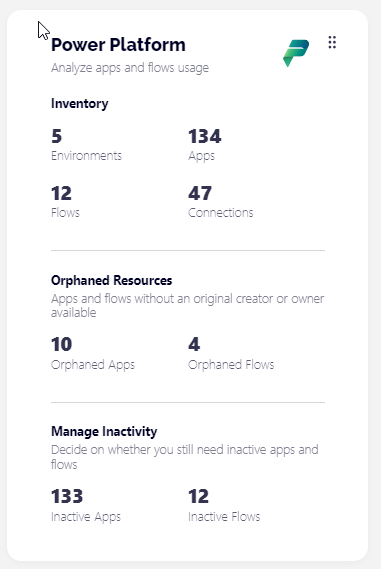
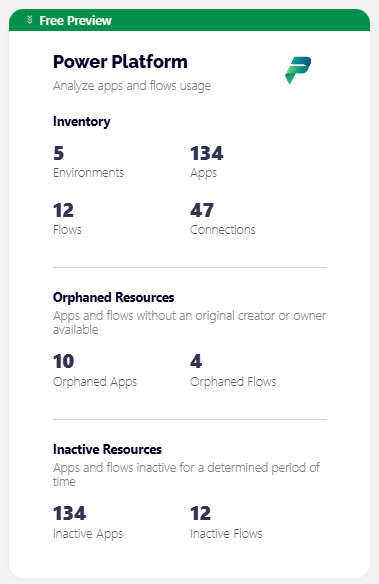
updates

diff --git a/reporting/power-platform-reports.md b/reporting/power-platform-reports.md
@@ -1,5 +1,5 @@
 ---
-description: Power Platform reports provide insight into the state of your Power BI workspaces.
+description: Power Platform reports provide insight into the state of your Power Platform environments.
 ---
 
 # Power Platform Reports
@@ -8,15 +8,16 @@ This article contains information on six Power Platform reports available throug
 
 * [Power Platform Environments Report](#power-platform-environments-report)
 * [Power Apps Inventory Report](#power-apps-inventory-report)
-* [Flow Inventory Report](#flow-inventory-report)
+* [Power Automate Inventory Report](#power-automate-inventory-report)
 * [Power Platform Connections Report](#power-platform-connections-report)
-* [Flow Permissions Report](#flow-permissions-report)
+* [Power Automate Permissions Report](#power-automate-permissions-report)
 * [Power App Permissions Report](#power-app-permissions-report)
 
 You can also find the Power BI reports under the Power Platform filter. For more information on those reports, [take a look at the Power BI reports article](../reporting/power-bi-reports.md).
 
 {% hint style="information" %}
-**Power Platform Reports** are available in the Security & Compliance plan and higher tiers. See the [pricing page](https://www.syskit.com/products/point/pricing/) for more details.
+**Power Platform Reports** are currently available as a free preview. After a certain amount of time has passed, this feature will be available as an add-on to your current subscription. 
+
 {% endhint %}
 
 ## Power Platform Environments Report
@@ -25,7 +26,7 @@ The Power Platform Environments report provides a complete overview of your Powe
 
 ### Generate Report
 
- * **Click the Reports button**; located on the left side of the screen.
+* **Click the Reports button**; located on the left side of the screen.
 * **Select the Power Platform category in the filter** in the upper left corner.
 * **Click the Power Platform Environments report tile** to be redirected to the Selection screen.
 
@@ -42,7 +43,6 @@ On the **Power Platform Environments** report, the default columns displayed are
 * **Connectors** - the number of connectors contained within the environment
 * **External Users** - the number of external users in the environment
 
-      
 The additional columns available in the **column chooser**, located in the top right corner of the report, are:
       
 * **State**
@@ -59,7 +59,7 @@ The Power Apps Inventory report gives a complete overview of all your Power Apps
 
 ### Generate Report
 
- * **Click the Reports button** on the screen's left side.
+ * **Click the Reports button** on the screen's left side.
 * **Select the Power Platform category in the filter** in the upper left corner.
 * **Click the Power Apps Inventory report tile** to be redirected to the Selection screen.
 
@@ -75,7 +75,7 @@ The **Power Platform Environments** report opens, where the default columns disp
 * **Flows** - the number of flows contained within the environment
 * **Connectors** - the number of connectors contained within the environment
 * **External Users** - the number of external users in the environment
-      
+
 The additional columns available in the **column chooser**, located in the top right corner of the report, are:
       
 * **State**
@@ -109,6 +109,11 @@ Here, you can find the following information in the columns:
 * **Unique Users in Last 30 Days** - number of unique users in the last 30 days
 * **Launches in 30 Days** - number of times the app was launched in the last 30 days
 
+In the top left corner, you can also select a specific view for the report:
+* **All Apps**
+* **Inactive Apps**
+* **Orphaned Apps**
+
 The additional columns available in the **column chooser**, located in the top right corner of the report, are:
 
 * **App ID**
@@ -122,14 +127,14 @@ The additional columns available in the **column chooser**, located in the top r
 * **Launches in the Last 180 Days**
 * **Active**
 
-## Flow Inventory Report
+## Power Automate Inventory Report
 
-The Flow Inventory report provides a complete overview of all your Power Automate Flows across every environment.
+The Power Automate Inventory report provides a complete overview of all your Power Automate Flows across every environment.
 
 ### Generate Report
 
 * **Click the Reports button** on the screen's left side.
-* **Select the Power Platform category in the filter** you can find in the upper left corner.
+* **Select the Power Platform category in the filter** in the upper left corner.
 * **Click the Flow Inventory report tile** to be redirected to the Selection screen.
 
 ### Report Data
@@ -144,7 +149,7 @@ The **Power Platform Environments** report opens, where the default columns disp
 * **Flows** - the number of flows contained within the environment
 * **Connectors** - the number of connectors contained within the environment
 * **External Users** - the number of external users in the environment
-      
+
 The additional columns available in the **column chooser**, located in the top right corner of the report, are:
       
 * **State**
@@ -193,8 +198,8 @@ The Power Platform Connections report provides a complete overview of all your P
 
 ### Generate Report
 
- * **Click the Reports button** on the screen's left side.
-* **Select the Power Platform category in the filter** you can find in the upper left corner.
+* **Click the Reports button** on the screen's left side.
+* **Select the Power Platform category in the filter** in the upper left corner.
 * **Click the Power Platform Connections report tile** to be redirected to the Selection screen.
 
 ### Report Data
@@ -209,7 +214,7 @@ The **Power Platform Environments** report opens, where the default columns disp
 * **Flows** - the number of flows contained within the environment
 * **Connectors** - the number of connectors contained within the environment
 * **External Users** - the number of external users in the environment
-      
+
 The additional columns available in the **column chooser**, located in the top right corner of the report, are:
       
 * **State**
@@ -235,14 +240,14 @@ Here, you can find the following information in the columns:
 The additional column available in the **column chooser**, located in the top right corner of the report, is the **Creator Sign-in Status**.
 
 
-## Flow Permissions Report
+## Power Automate Permissions Report
 
-The Flow Permissions report gives insight into the permissions given to Power Automate Flows.
+The Flow Permissions report gives insight into the permissions granted to Power Automate Flows.
 
 ### Generate Report
 
- * **Click the Reports button** on the screen's left side.
-* **Select the Power Platform category in the filter** you can find in the upper left corner.
+* **Click the Reports button** on the screen's left side.
+* **Select the Power Platform category in the filter** in the upper left corner.
 * **Click the Flow Permissions report tile** to be redirected to the Selection screen.
 
 ### Report Data
@@ -257,7 +262,7 @@ The **Power Platform Environments** report opens, where the default columns disp
 * **Flows** - the number of flows contained within the environment
 * **Connectors** - the number of connectors contained within the environment
 * **External Users** - the number of external users in the environment
-      
+
 The additional columns available in the **column chooser**, located in the top right corner of the report, are:
       
 * **State**
@@ -283,12 +288,12 @@ The additional columns available in the **column chooser**, located in the top r
 
 ## Power App Permissions Report
 
-The Power App Permissions report gives insight into the permissions given to Power Platform Apps.
+The Power App Permissions report gives insight into the permissions granted to Power Platform Apps.
 
 ### Generate Report
 
- * **Click the Reports button** on the screen's left side.
-* **Select the Power Platform category in the filter** you can find in the upper left corner.
+* **Click the Reports button** on the screen's left side.
+* **Select the Power Platform category in the filter** in the upper left corner.
 * **Click the Power App Permissions report tile** to be redirected to the Selection screen.
 
 ### Report Data
@@ -303,7 +308,7 @@ The **Power Platform Environments** report opens, where the default columns disp
 * **Flows** - the number of flows contained within the environment
 * **Connectors** - the number of connectors contained within the environment
 * **External Users** - the number of external users in the environment
-      
+
 The additional columns available in the **column chooser**, located in the top right corner of the report, are:
       
 * **State**

diff --git a/configuration/power-platform.md b/configuration/power-platform.md
@@ -4,7 +4,7 @@ description: This article explains how to enable Power Platform data collection 
 
 # Power Platform Data Collection
 
-Enabling Power Platform data collection lets you generate Power Platform reports to keep track of your Power Platform usage. It also enables the Power Platform Dashboard tile. 
+Enabling Power Platform data collection lets you generate Power Platform reports for a detailed overview of your Power Platform environments. It also enables the Power Platform Dashboard tile. 
 
 To configure Power Platform for Syskit Point, complete the following:
 
@@ -20,32 +20,26 @@ To collect Power Platform data, you need to **provide consent** for us to start 
 * **Click the Login with Microsoft Authentication flow (3)** button and log in with your admin account
   * The confirmation modal appears up, listing the permissions that are required for the Power Platform feature
   * **Selecting the 'Consent on behalf of your organization' checkbox (4)** gives Syskit Point access to the specified resources for all users in your environment, and no one else will be prompted to review these permissions
-  * If this is not selected, WHAT HAPPENS?
+  * If this is not selected, Power Platform data will not be collected until the login is authenticated. 
 * **Click Accept (5)** to start collecting Power Platform data in Syskit Point
 
 ![Configure Power Platform](../.gitbook\assets\power-platform-configuration.png)
 
 ![Configure Power Platform - Consent](../.gitbook\assets\power-platform-configuration-consent.png)
 
-{% hint style="information" %}
-
-Permissions granted to Syskit Point can be removed after syncing data, as they are not required until the next Power Platform login.
-  * If the permission granted is not removed, you are never required to repeat the configuration steps again.
-
-{% endhint %}
 
 * [For details on how to enable Power BI data collection, take a look at this article.](../configuration/enable-powerBI-data-collection.md)
 
-## Enable Power Apps and Power Automate
+## Enable Power Apps and Power Automate Data Collection
 
 Once the permissions are granted, you can see the **Status** in the Settings change to **Collecting Data** with a **green** checkbox next to it. 
 
 If the box is unchecked, the Status is yellow and states, 'Please Enable Data Collection Above to Continue.'
 
-To make sure Power Apps and Power Automate are enabled, after granting permissions, please do the following:
+To make sure Power Apps and Power Automate data collection is enabled, after granting permissions, please do the following:
 
 * Ensure that the **checkbox is selected (1)** next to Collect Power Apps and Power Automate Data
-* You can then set your **Reporting Limit (2)** for how long environments, flows or apps need to be inactive before they are flagged. The following can be set:
+* You can then set your **Reporting Limit (2)** for how long environments, flows, or apps must be inactive before being flagged. The following can be set:
   * Inactive environments that don't have any activities in the last XX days
   * Inactive flows that haven't been run in the last XX days
   * Inactive apps that haven't been launched in the last XX days
@@ -62,6 +56,6 @@ For more details, [take a look at the Power Platform reports article](../reporti
 
 {% hint style="information" %}
 
-You can currently use this feature as a FREE preview. After a certain amount of time has passed, this feature will be available as an add-on to your current subscription. 
+You can currently use this feature as a free preview. After a certain amount of time has passed, this feature will be available as an add-on to your current subscription. 
 
 {% endhint %}

diff --git a/microsoft365-inventory/explore-your-microsoft-365-dashboard.md b/microsoft365-inventory/explore-your-microsoft-365-dashboard.md
@@ -15,21 +15,22 @@ You can use Dashboard to:
 The Dashboard is the home page of Syskit Point and shows as soon as you log in. 
 
 The **Syskit Point** Dashboard shows Syskit Point administrators the following information in the tiles:
- * Inventory
- * Users
- * Storage
- * Security & Compliance
- * Copilot Readiness
- * External Collaboration
- * Active Access Review
- * Lifecycle Management
- * Microsoft 365 Licenses
- * Power Platform
+* Inventory
+* Users
+* Storage
+* Security & Compliance
+* Copilot Readiness
+* External Collaboration
+* Active Access Review
+* Lifecycle Management
+* Microsoft 365 Licenses
+* Power Platform
+
 
 The **Syskit Point** Dashboard shows Syskit Point collaborators the following information in the tiles:
- * Inventory
- * Users
- * External Collaboration
+* Inventory
+* Users
+* External Collaboration
 
 
 ![Dashboard tile on the Welcome Home screen](../.gitbook/assets/explore-dashboard-dashboard-tiles-on-welcome-home-screen.png)
@@ -258,12 +259,12 @@ The tile on the Dashboard shows:
 * **Orphaned Resources** - shows the number of apps and flows without an original creator or owner available
   * Clicking the **Orphaned Apps** number, opens the Power Apps Inventory report with the Orphaned Apps filter applied
   * Clicking the **Orphaned Flows** number, opens the Power Automate Inventory report with the Orphaned Flows filter applied
-* **Manage Inactivity** - provides an overview of inactive apps and flows to help you determine which are no longer necessary 
+* **Inactive Resources** - provides an overview of inactive apps and flows to help you determine which are no longer necessary 
   * Clicking the **Inactive Apps** number, opens the Power Apps Inventory report with the Inactive Apps filter applied
   * Clicking the **Inactive Flows** number, opens the Power Automate Inventory report with the Inactive Flows filter applied
 
 * For more details [on the Power Platform reports, take a look at thos article.](../reporting/power-platform-reports.md)
 
-![Copilot Readiness Tile](../.gitbook/assets/power-platform-tile.png)
+![Power Platform Tile](../.gitbook/assets/power-platform-tile.png)
 
 
